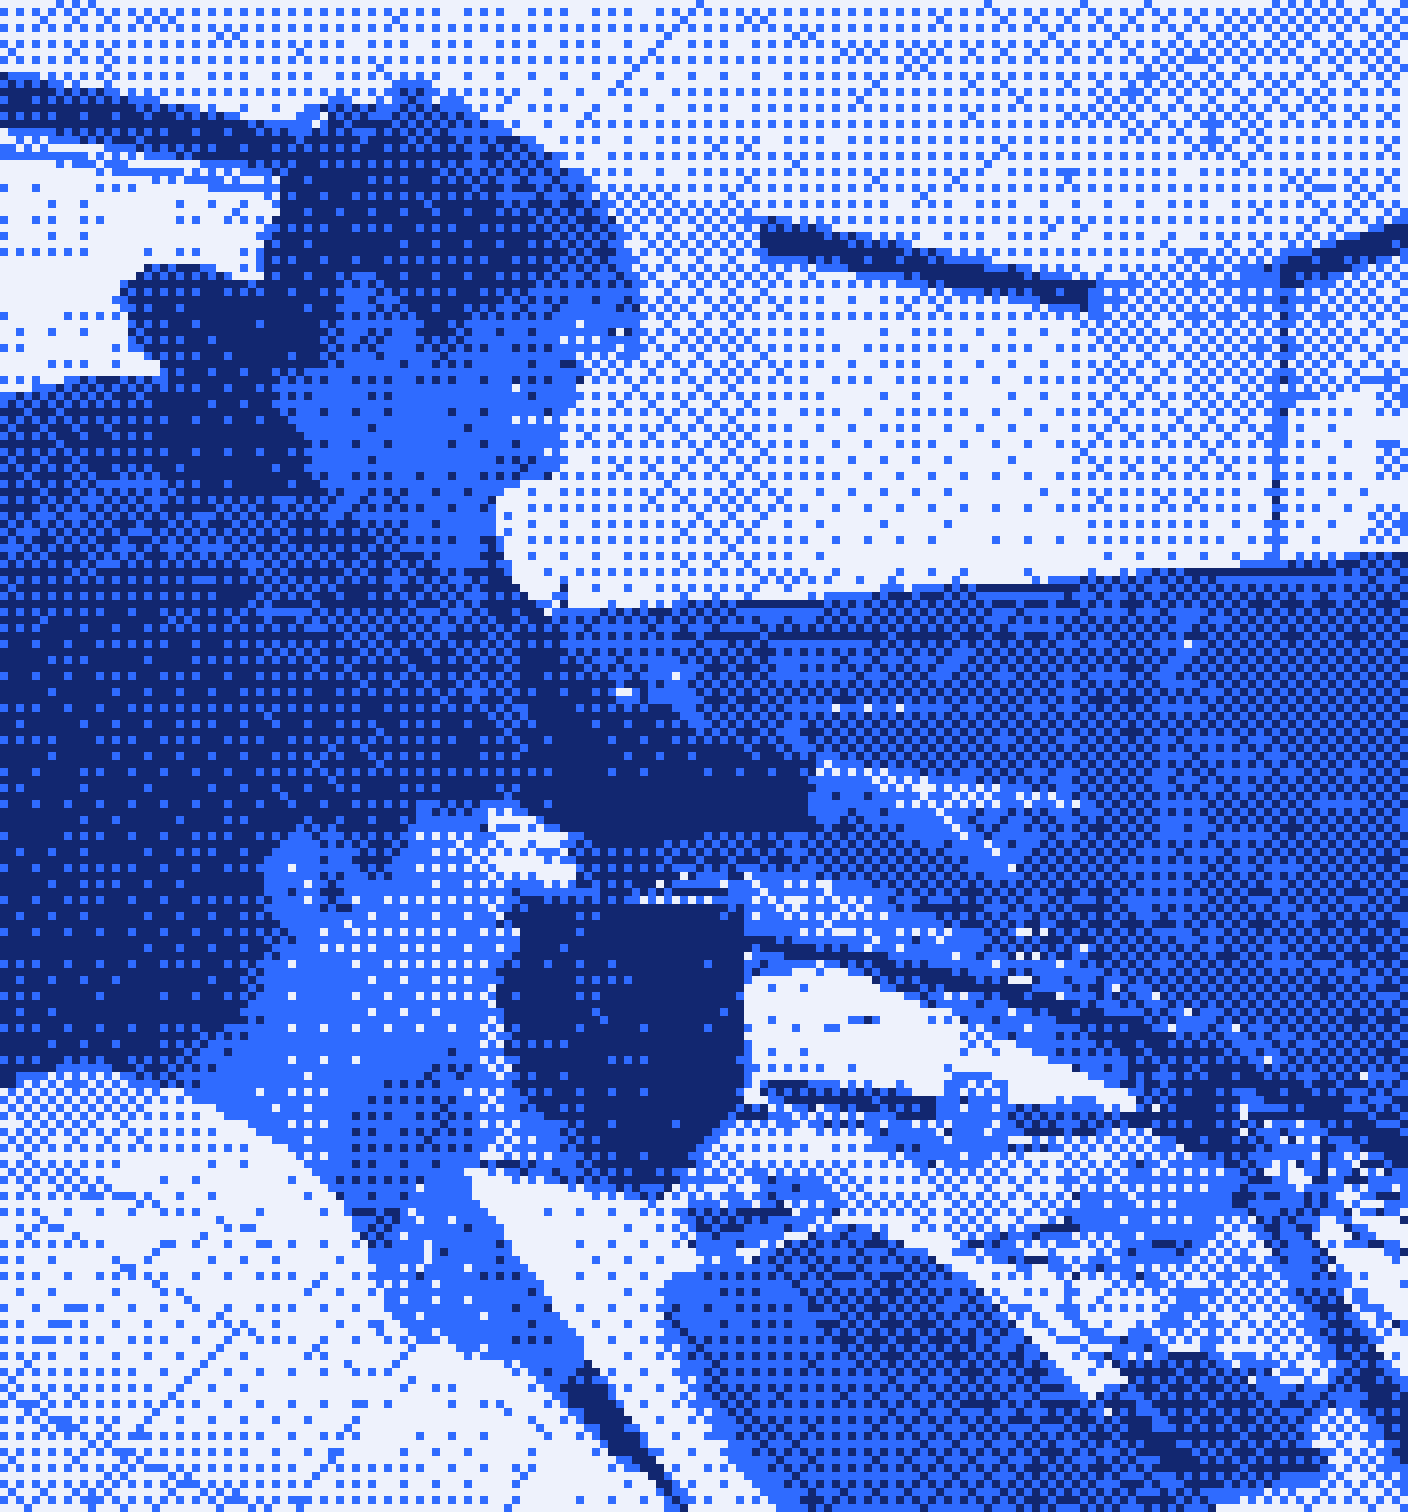
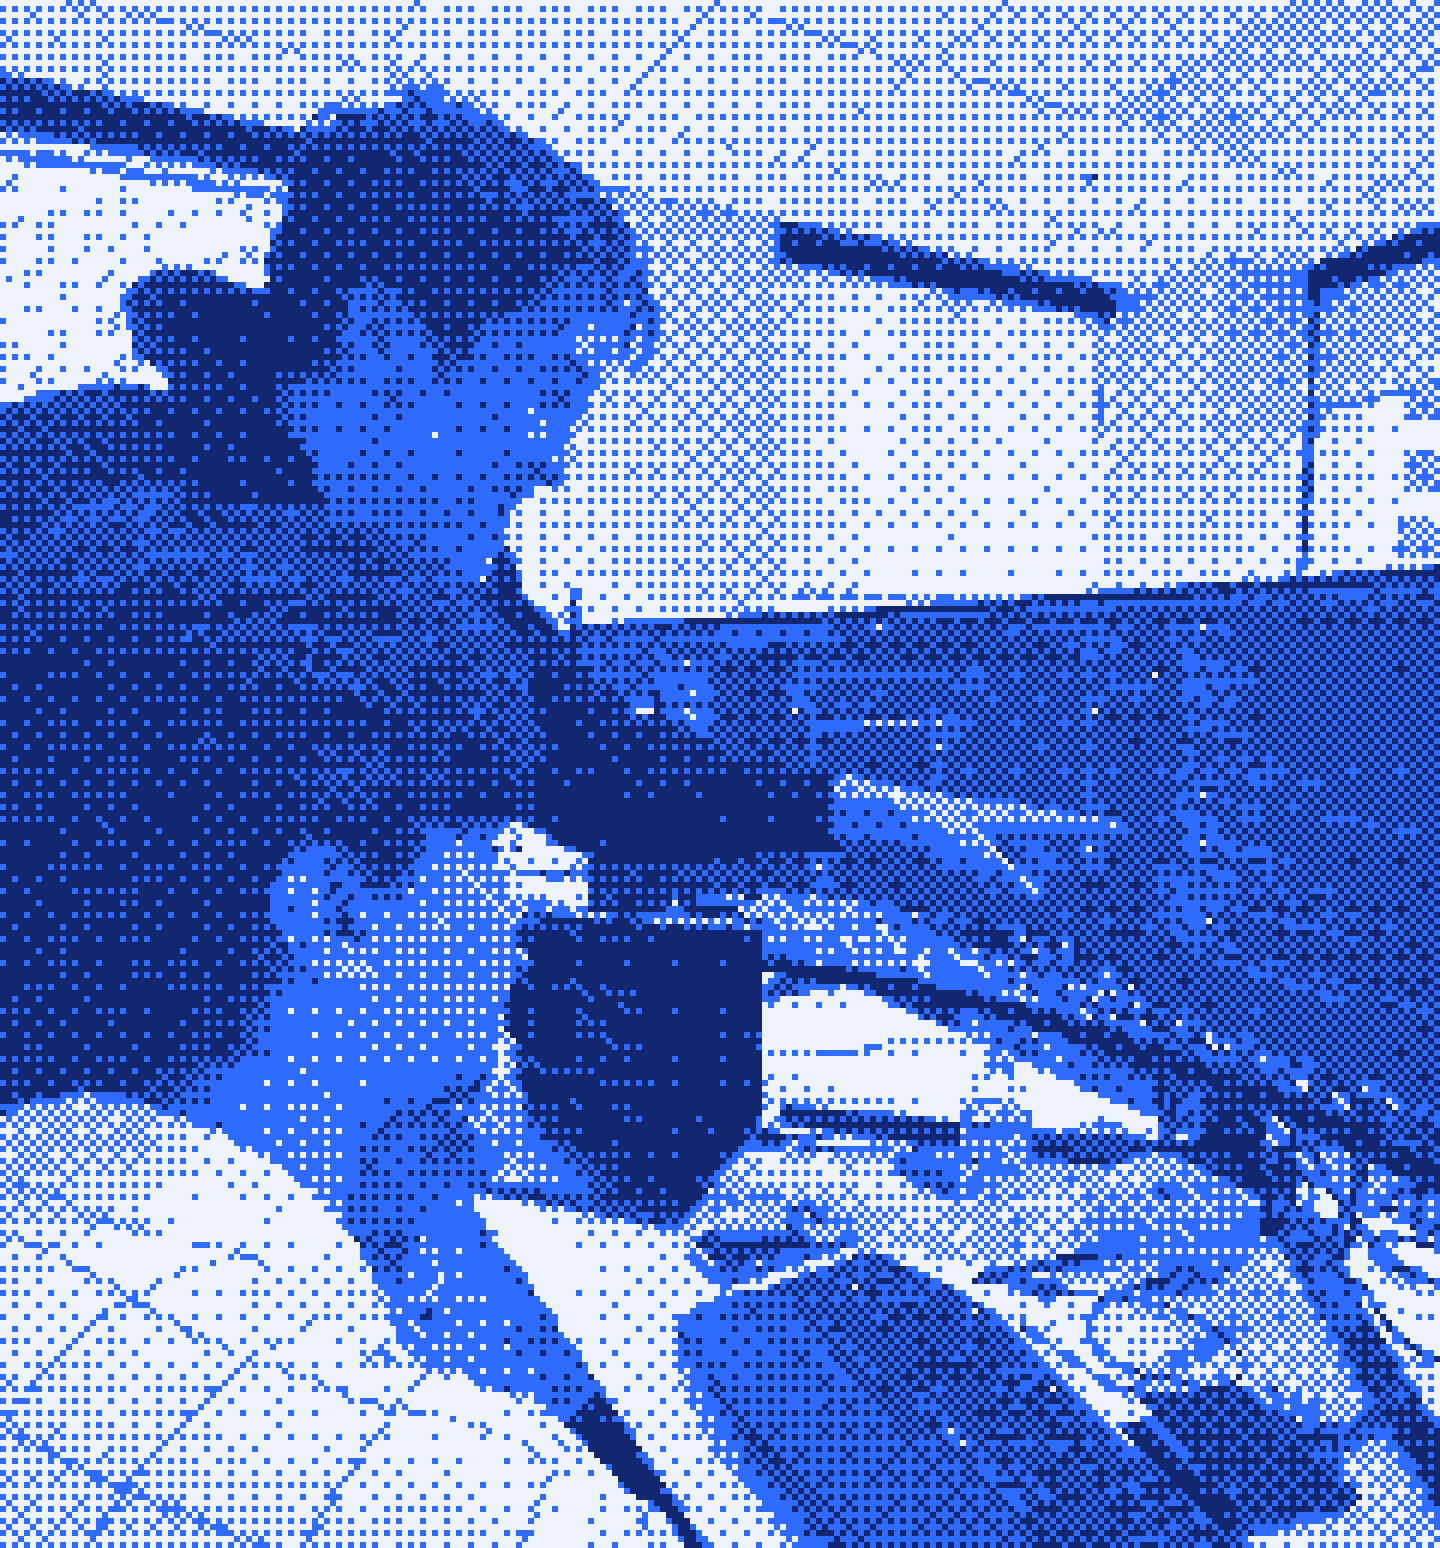
Dossier careers: the mission plate's grain refines — 240 cells (sync with landing)

diff --git a/src/app/d/singularity-dossier/careers/page.tsx b/src/app/d/singularity-dossier/careers/page.tsx
@@ -116,10 +116,10 @@ export default async function DossierCareersPage() {
                 <Image
                   alt='Two engineers pairing on code at our San Francisco office'
                   className='careers-mission-photo'
-                  height={1512}
+                  height={1548}
                   src='/careers/mission-dither.png'
                   unoptimized
-                  width={1408}
+                  width={1440}
                 />
               </div>
             </div>
